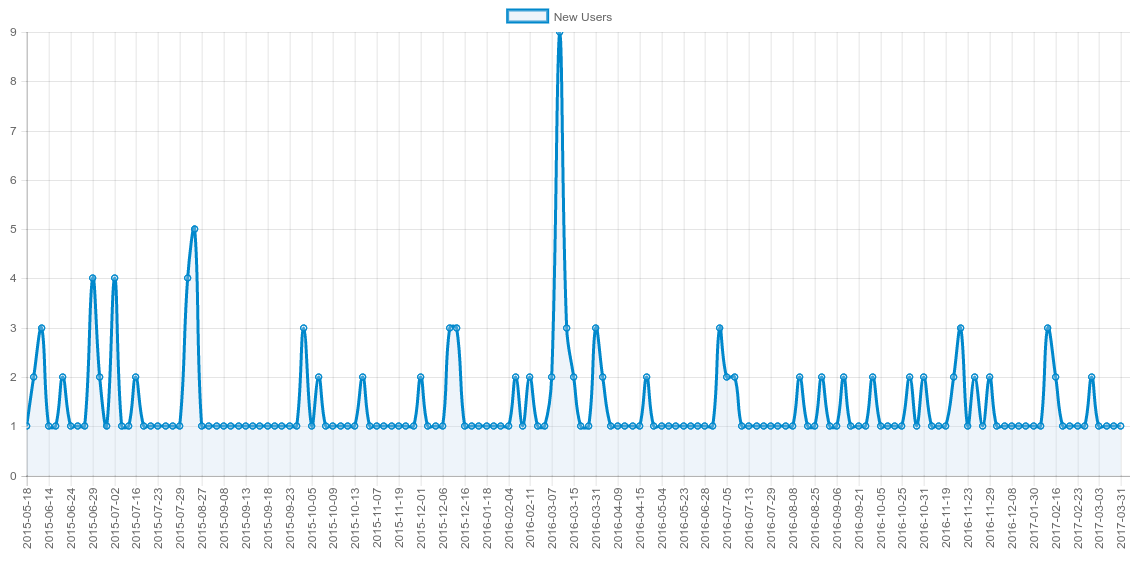
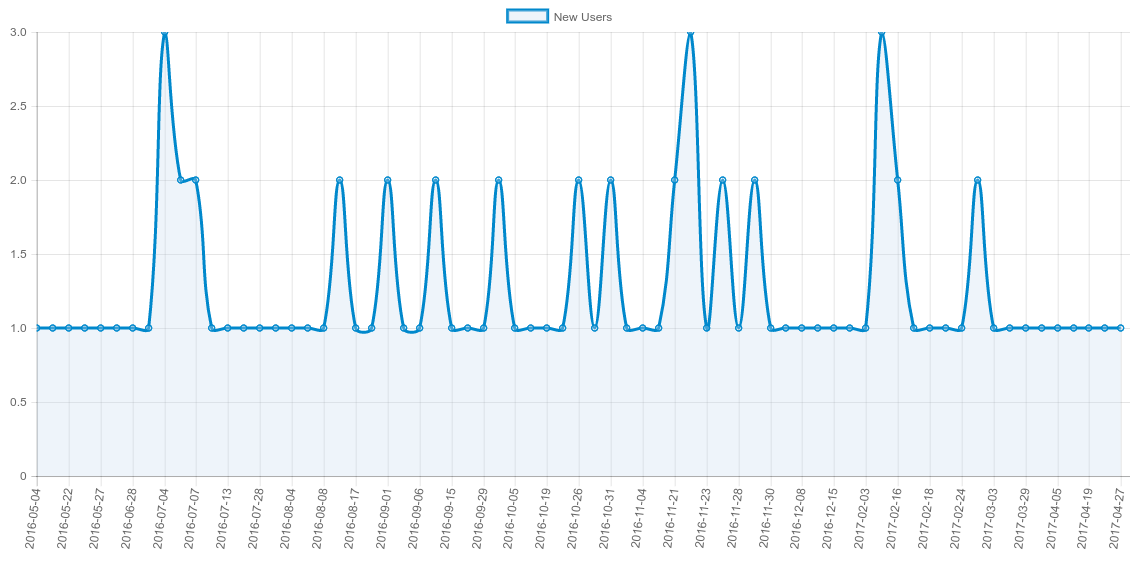
Updates in preparation for v0.0.5
1. Update glossary
  1. Add project documentation table to main file.
  1. Update New  Users from Discourse graph
     Closed #1

diff --git a/D2.3-UF.md b/D2.3-UF.md
@@ -8,27 +8,44 @@ fignos-cleveref: On
 fignos-plus-name: Fig.
 header-includes: \usepackage{caption}
 ---
+<!-- insert the project documentation sheet here -->
+|| Project documentation sheet |
+| :--- | :---- |
+| Project Acronym | Sci-GaIA |
+| Project Full Title | Energising Scientific Endeavour through Science Gateways and e-Infrastructures in Africa |
+| Grant Agreement | GA #654237 |
+| Call Identifier | H2020-INFRASUPP- 2014-2 |
+| Funding Scheme | Coordination and Support Action (CSA) |
+| Project Durataion | 24 months (May 2015 - April 2017) |
+| Project Officer | Enrique Gomes, Unit C.1, DG CONNECT <br> European Commission |
+| Co-Ordinator | Dr. Simon J. E. Taylor, Brunel University London (UK) - BRUNEL |
+| Consortium Partners | Brunel University London (UK) - BRUNEL <br> The UbuntuNet Alliance for Research and Education (Malawi) - UBUNTUNET <br> University of Catania (Italy) - UNICT <br> The West and Central African Research and Education Network (Ghana) - WACREN <br> The Royal Institute of Technology (Sweden) - KTH <br> The Dar es Salam Institute of Technology (Tanzania) - DIT <br> Karolinska Institutet (Sweden) - KI <br> CSIR/Meraka Institute (South Africa) - CSIR |
+| website | www.sci-gaia.eu |
+
+<!-- end project documentation sheet -->
+<br>
 
 <!-- insert the deliverable document log here -->
 
-| DELIVERABLE DOCUMENTATION SHEET | |
-| :---: | :----: |
+|| DELIVERABLE DOCUMENTATION SHEET |
+| :--- | :---- |
 | Number | Deliverable D2.3 |
 | Title | Sci-GaIA Deliverable 2.3 : Outcomes of the Web-Based User Forum |
 | Related WP | WP2 |
-| Related Task | Task X.X (XXX) |
+| Related Task | Task  2.1 |
 | Lead Beneficiary | CSIR |
 | Author(s) | Bruce Becker (CSIR) |
 | Contributor(s) | Roberto Barbera (University of Catania) |
 | Reviewer(s) | Roberto Barbera (University of Catania) |
 | Nature | R (Report) |
 | Dissemination level | PU (Public) |
-| Due Date | March 2017 (M23) |
+| Due Date | February 2017 (M22) |
 | Submission date | Month DD, YYYY (MXX) |
 | Status | Draft |
 
 <!-- end deliverable documentation table -->
 
+<br>
 
 DISCLAIMER
 
@@ -48,6 +65,7 @@ ACKNOWLEDGEMENT
 This document is a deliverable of the Sci-GaIA project, which has received funding from the European Union’s Horizon 2020 Programme for Research, Technological Development and Demonstration under Grant Agreement (GA) Nb #654237.
 
 <br>
+
 <!-- TOC depthFrom:1 depthTo:6 withLinks:1 updateOnSave:1 orderedList:1 -->
 
 1. [Executive Summary](#executive-summary)
@@ -126,9 +144,9 @@ The project was funded with the acknowledgement that the partners had both acces
 
 Online community engagement is a low-yield activity, which requires commitment, cajoling, the right tools and above all momentum to succeed.
 Any _new_ forum for a community such as ours which was weak in any of these aspects could be expected to require more effort to sustain that could be expended during the course of  the project with the resources at hand.
-For this reason, we conduct a short situational analysis in the interest  of due diligence.
+For this reason, we conducted a short situational analysis in the interest  of due diligence.
 
-The nature of the web means that there is a great probability that any new service, platform or social network will hardly register in the attention register of the target community. In
+The nature of the web means that there is a great probability that any new service, platform or social network will hardly register in the attention of the target community. In
 order to concentrate effort on community management, several organisers tend to adopt existing social networks, and then hone them towards their particular needs.
 The web offers a very rich choice of means for cultivating communities, both "open" and "closed".
 Their adoption rates speak for  themselves.

diff --git a/deliverable-documentation-table.md b/deliverable-documentation-table.md
@@ -3,13 +3,13 @@
 | Number | Deliverable D2.3 |
 | Title | Sci-GaIA Deliverable 2.3 : Outcomes of the Web-Based User Forum |
 | Related WP | WP2 |
-| Related Task | Task X.X (XXX) |
+| Related Task | Task  2.1 |
 | Lead Beneficiary | CSIR |
 | Author(s) | Bruce Becker (CSIR) |
 | Contributor(s) | Roberto Barbera (University of Catania) |
 | Reviewer(s) | Roberto Barbera (University of Catania) |
 | Nature | R (Report) |
 | Dissemination level | PU (Public) |
-| Due Date | March 2017 (M23) |
+| Due Date | February 2017 (M22) |
 | Submission date | Month DD, YYYY (MXX) |
 | Status | Draft |

diff --git a/glossary.md b/glossary.md
@@ -12,3 +12,5 @@
 | REST | Representational State Transfer - a standard vocabulary for interacting with remote services |
 | WIMEA-ICT | Weather Information Management in East Africa - research community |
 | VPN | Virtual Private Network - network technology |
+| Slack | |
+| | |
